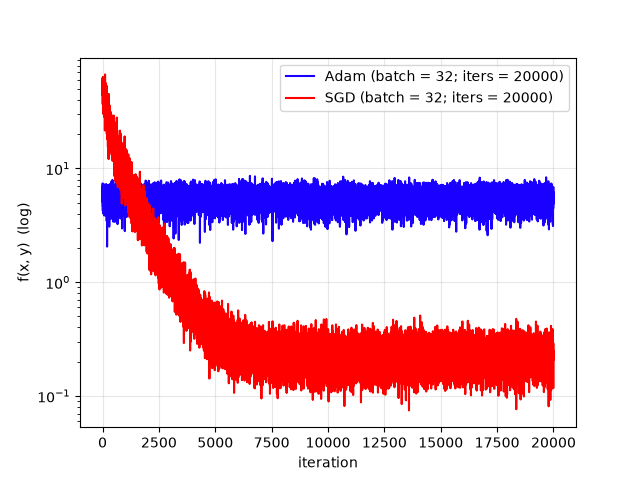
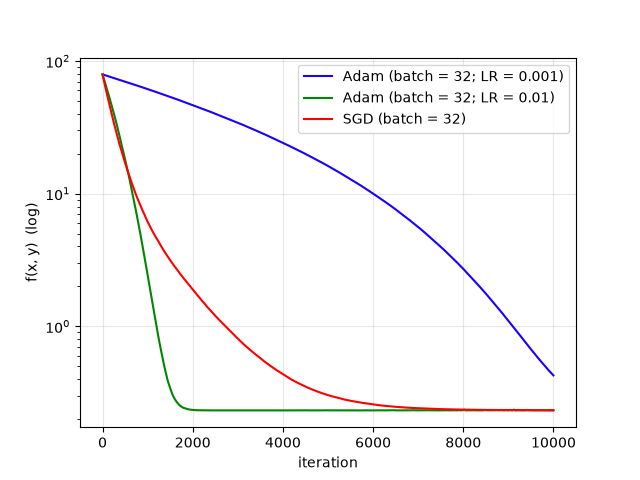
W5D4: fixed division overflow issue, needed to update m_t and v_t with the uncorrected moments, not the corrected ones. Also smoothed out loss chart by computing avg loss on full dataset, not batch sample

diff --git a/phase_1_math/week_5/d4_adam_optimizer.py b/phase_1_math/week_5/d4_adam_optimizer.py
@@ -19,7 +19,8 @@ def AdamOptimizer(starting_params, dataset, betas=[0.9, 0.999], alpha=0.001, bat
     N = len(dataset)
     beta_m, beta_v = betas[0], betas[1]
     theta_t = starting_params
-    curr_m, curr_v = np.zeros_like(theta_t)
+    curr_m = np.zeros_like(theta_t)
+    curr_v = np.zeros_like(theta_t)
 
     step_history = []
     loss_history = []
@@ -51,13 +52,15 @@ def AdamOptimizer(starting_params, dataset, betas=[0.9, 0.999], alpha=0.001, bat
         v_hat_t = v_t / (1 - (beta_v ** t))
 
         # compute grad update
-        theta_t -= (alpha * (m_hat_t / (np.sqrt(v_hat_t) + epsilon)))
+        theta_t_1 = theta_t - (alpha * (m_hat_t / (np.sqrt(v_hat_t) + epsilon)))
 
         # now we update our terms for the next cycle
-        curr_m = m_hat_t
-        curr_v = v_hat_t
+        curr_m = m_t
+        curr_v = v_t
+        theta_t = theta_t_1
 
-        avg_loss = (1 / batch) * sum([(theta_t[0] * point[0] + theta_t[1]) - point[1] for point in batch_sample])
+        #avg_loss = (1 / batch) * sum([((theta_t[0] * point[0] + theta_t[1]) - point[1]) ** 2 for point in batch_sample])
+        avg_loss = eval_loss(theta_t, dataset)
         step_history.append(theta_t)
         loss_history.append(avg_loss)
         t += 1
@@ -75,7 +78,6 @@ def SGD(starting_params, dataset, lr=0.001, batch=64, n_iters=1000, tol=0.2):
 
     theta_t = starting_params
     step_history = [theta_t]
-    curr_avg_loss = 5.0
     loss_history = []
     t = 0
     
@@ -104,7 +106,8 @@ def SGD(starting_params, dataset, lr=0.001, batch=64, n_iters=1000, tol=0.2):
         
         # our condition check is going to be on the current average loss over our batch:
         #curr_avg_loss = eval_loss(theta_t_1, dataset) # if we want smooth convergence curves
-        curr_avg_loss = (1 / float(batch)) * sum([((theta_t[0] * batch_point[0] + theta_t[1]) - batch_point[1]) ** 2 for batch_point in batch_sample])
+        #curr_avg_loss = (1 / float(batch)) * sum([((theta_t[0] * batch_point[0] + theta_t[1]) - batch_point[1]) ** 2 for batch_point in batch_sample])
+        curr_avg_loss = eval_loss(theta_t, dataset)
         loss_history.append(curr_avg_loss)
         t += 1
     
@@ -130,12 +133,14 @@ def test():
     dataset = np.column_stack((x, true_y))
     
     init_params = rng.uniform(5.0, 20.0, size=2)
-    adam_step_hist, adam_loss_hist, adam_iters = AdamOptimizer(init_params, dataset, batch=32, n_iters=20000)
-    SGD_step_hist, SGD_loss_hist, SGD_iters = SGD(init_params, dataset, batch=32, n_iters=20000)
+    adam_step_hist, adam_loss_hist, adam_iters = AdamOptimizer(init_params, dataset, batch=32, n_iters=10000)
+    adam2_step_hist, adam2_loss_hist, adam2_iters = AdamOptimizer(init_params, dataset, alpha=0.01, batch=32, n_iters=10000)
+    SGD_step_hist, SGD_loss_hist, SGD_iters = SGD(init_params, dataset, batch=32, n_iters=10000)
 
     # get a plot to compare loss convergence
-    ax_conv = plot(adam_step_hist, adam_loss_hist, dataset, color="#1900ff", label=f"Adam (batch = 32; iters = {adam_iters})")
-    plot(SGD_step_hist, SGD_loss_hist, dataset, ax=ax_conv, color="#ff0000", label=f"SGD (batch = 32; iters = {adam_iters})")
+    ax_conv = plot(adam_step_hist, adam_loss_hist, dataset, color="#1900ff", label=f"Adam (batch = 32; LR = 0.001)")
+    plot(adam2_step_hist, adam2_loss_hist, dataset, ax=ax_conv, color="#008600", label=f"Adam (batch = 32; LR = 0.01)")
+    plot(SGD_step_hist, SGD_loss_hist, dataset, ax=ax_conv, color="#ff0000", label=f"SGD (batch = 32)")
     ax_conv.figure.savefig("./figs/D4_adam_vs_SGD_loss_plot.png")
 
 if __name__ == "__main__":
